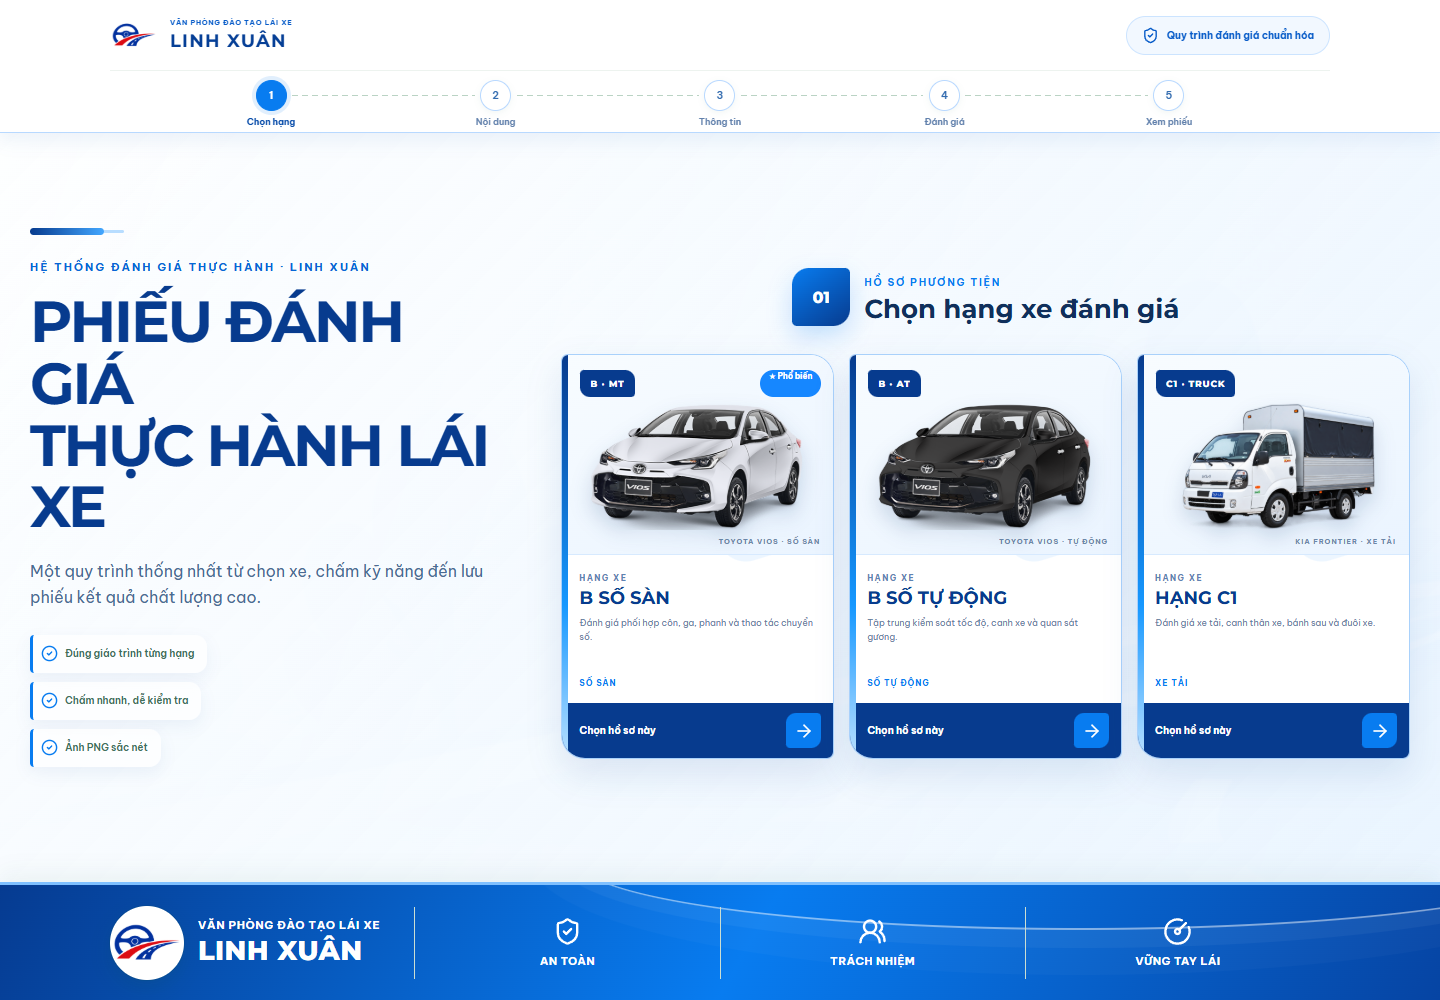
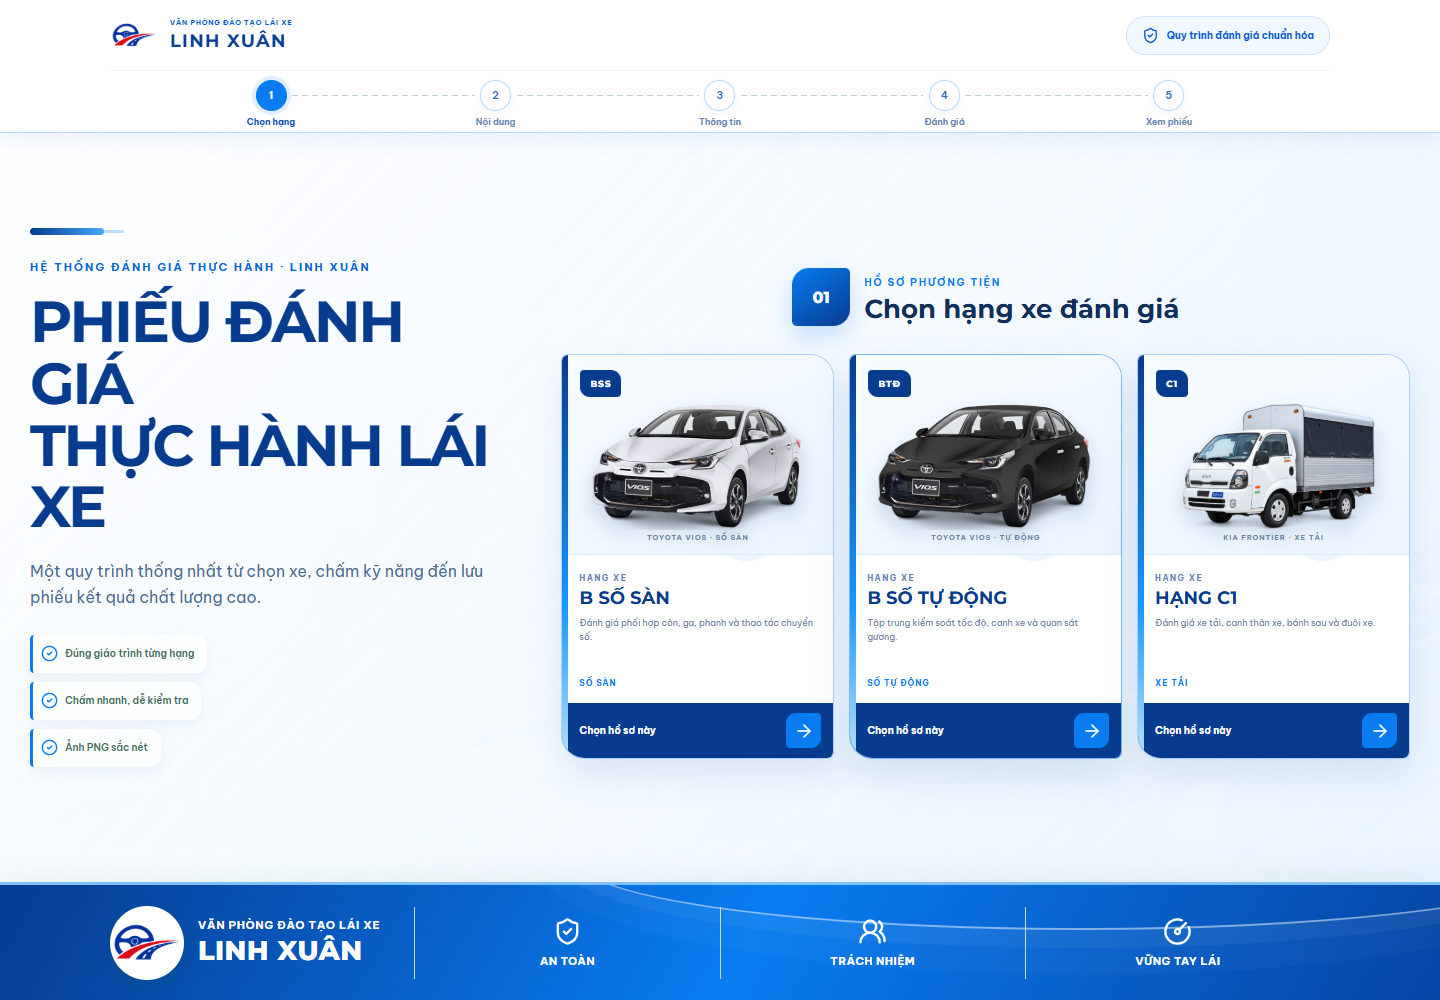
Cap nhat code moiii

diff --git a/src/styles/linh-xuan-premium.css b/src/styles/linh-xuan-premium.css
@@ -222,18 +222,6 @@
   letter-spacing: .8px;
 }
 
-.lx-premium .vehicle-card__popular {
-  z-index: 7 !important;
-  top: 15px !important;
-  right: 12px !important;
-  left: auto !important;
-  min-height: 27px;
-  padding: 0 9px !important;
-  border-radius: 99px !important;
-  background: #1687ff !important;
-  font-size: 8px !important;
-}
-
 .lx-premium .vehicle-card__photos {
   width: 100%;
   height: 200px !important;
@@ -250,8 +238,10 @@
 
 .lx-premium .vehicle-card__photos > span {
   position: absolute;
-  right: 13px;
-  bottom: 8px;
+  left: 12px;
+  right: 12px;
+  bottom: 12px;
+  text-align: center;
   color: #6c88a9;
   font-size: 7px;
   font-weight: 800;
@@ -272,7 +262,9 @@
   left: 50% !important;
   right: auto !important;
   bottom: 24px !important;
-  width: 140% !important;
+  /* The supplied Vios PNGs include transparent side margins. This scale
+     fills the frame while leaving room around the painted vehicle. */
+  width: 130% !important;
   max-width: none !important;
   height: 130px !important;
   transform: translateX(-50%) !important;
@@ -1094,7 +1086,7 @@
     min-height: 248px !important;
     display: grid !important;
     grid-template-columns: 128px minmax(0,1fr) !important;
-    grid-template-rows: 1fr 53px !important;
+    grid-template-rows: 1fr 55px !important;
     transform: none !important;
   }
 
@@ -1110,28 +1102,30 @@
   }
 
   .lx-premium .vehicle-card__photo--single {
-    width: 154% !important;
+    width: 130% !important;
     height: auto !important;
-    bottom: 45px !important;
+    bottom: 50px !important;
   }
 
   .lx-premium .vehicle-card__photo--truck {
-    width: 96% !important;
+    width: calc(100% - 16px) !important;
     height: 110px !important;
     bottom: 38px !important;
   }
 
   .lx-premium .vehicle-card__photos > span {
     right: 8px;
+    left: 8px;
     bottom: 16px;
-    font-size: 6px;
+    font-size: 6.5px;
+    letter-spacing: .65px;
   }
 
   .lx-premium .vehicle-card__content {
     grid-column: 2;
     grid-row: 1;
     min-width: 0;
-    padding: 48px 13px 12px !important;
+    padding: 32px 15px 16px !important;
   }
 
   .lx-premium .vehicle-card__content h3 {
@@ -1152,9 +1146,6 @@
     top: 13px;
   }
 
-  .lx-premium .vehicle-card__popular {
-    top: 13px !important;
-  }
 }
 
 @media (max-width: 520px) {

diff --git a/src/pages/VehicleSelectionPage.tsx b/src/pages/VehicleSelectionPage.tsx
@@ -29,9 +29,9 @@ export function VehicleSelectionPage({ onSelect }: VehicleSelectionPageProps) {
   }
 
   const vehicleCodes: Record<VehicleCategory, string> = {
-    B_MANUAL: 'B · MT',
-    B_AUTOMATIC: 'B · AT',
-    C1: 'C1 · TRUCK',
+    B_MANUAL: 'BSS',
+    B_AUTOMATIC: 'BTĐ',
+    C1: 'C1',
   }
 
   const vehicleKinds: Record<VehicleCategory, string> = {
@@ -69,7 +69,6 @@ export function VehicleSelectionPage({ onSelect }: VehicleSelectionPageProps) {
                 onClick={() => onSelect(category.id)}
               >
                 <span className="vehicle-card__code">{vehicleCodes[category.id]}</span>
-                {category.id === 'B_MANUAL' && <span className="vehicle-card__popular">★ Phổ biến</span>}
                 {vehicleVisual(category.id)}
                 <div className="vehicle-card__content">
                   <small>HẠNG XE</small>
